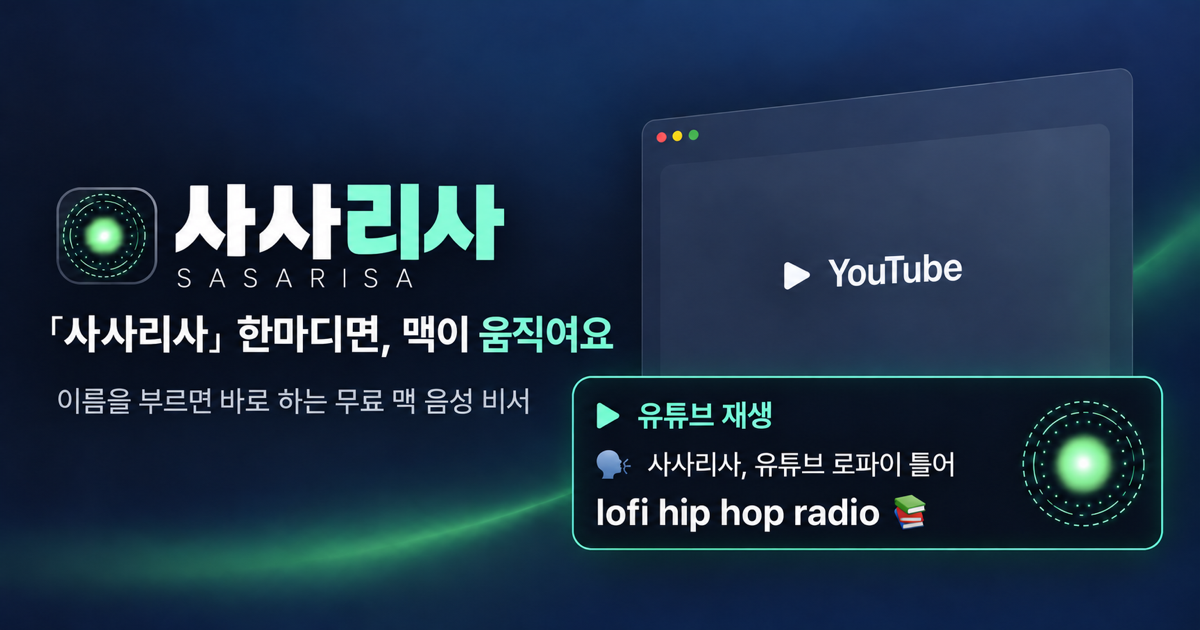
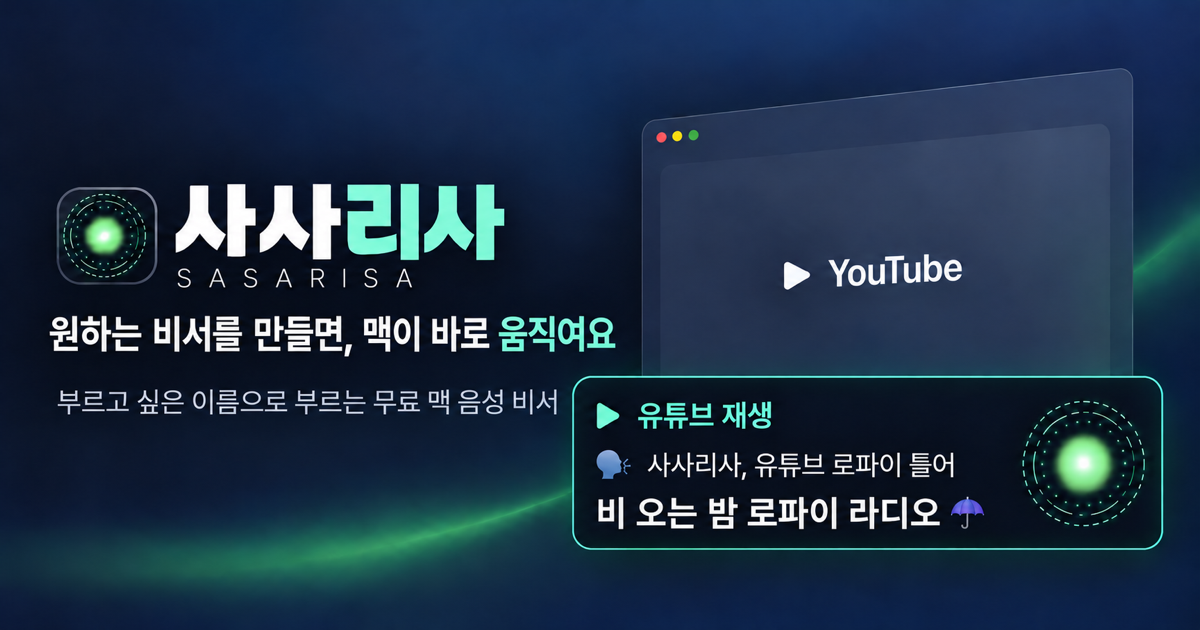
공유 미리보기 그림을 새 문구로: 「원하는 비서를 만들면, 맥이 바로 움직여요」 / "Name your assistant. Your Mac does it."
카드 속 실제 채널 방송 제목(lofi hip hop radio 📚)도 「비 오는 밤 로파이 라디오 ☔」로. 한글 관문 통과.

diff --git a/docs/en/index.html b/docs/en/index.html
@@ -3,9 +3,9 @@
 <head>
 <meta charset="utf-8">
 <meta name="viewport" content="width=device-width, initial-scale=1">
-<title>Sasarisa — say its name, your Mac does it (free voice assistant for macOS)</title>
+<title>Sasarisa — name your assistant, your Mac does it (free voice assistant for macOS)</title>
 <meta name="description" content="Say “Sasarisa” and talk. YouTube, shopping, timers, rewriting text — and coding, handed to Claude Code. Free, open source, macOS.">
-<meta property="og:title" content="Sasarisa — say its name, your Mac does it">
+<meta property="og:title" content="Sasarisa — name your assistant, your Mac does it">
 <meta property="og:description" content="From easy chores to coding — by voice. Free, open source, macOS.">
 <meta property="og:image" content="https://sasarisa.com/social.png">
 <meta name="twitter:card" content="summary_large_image">
